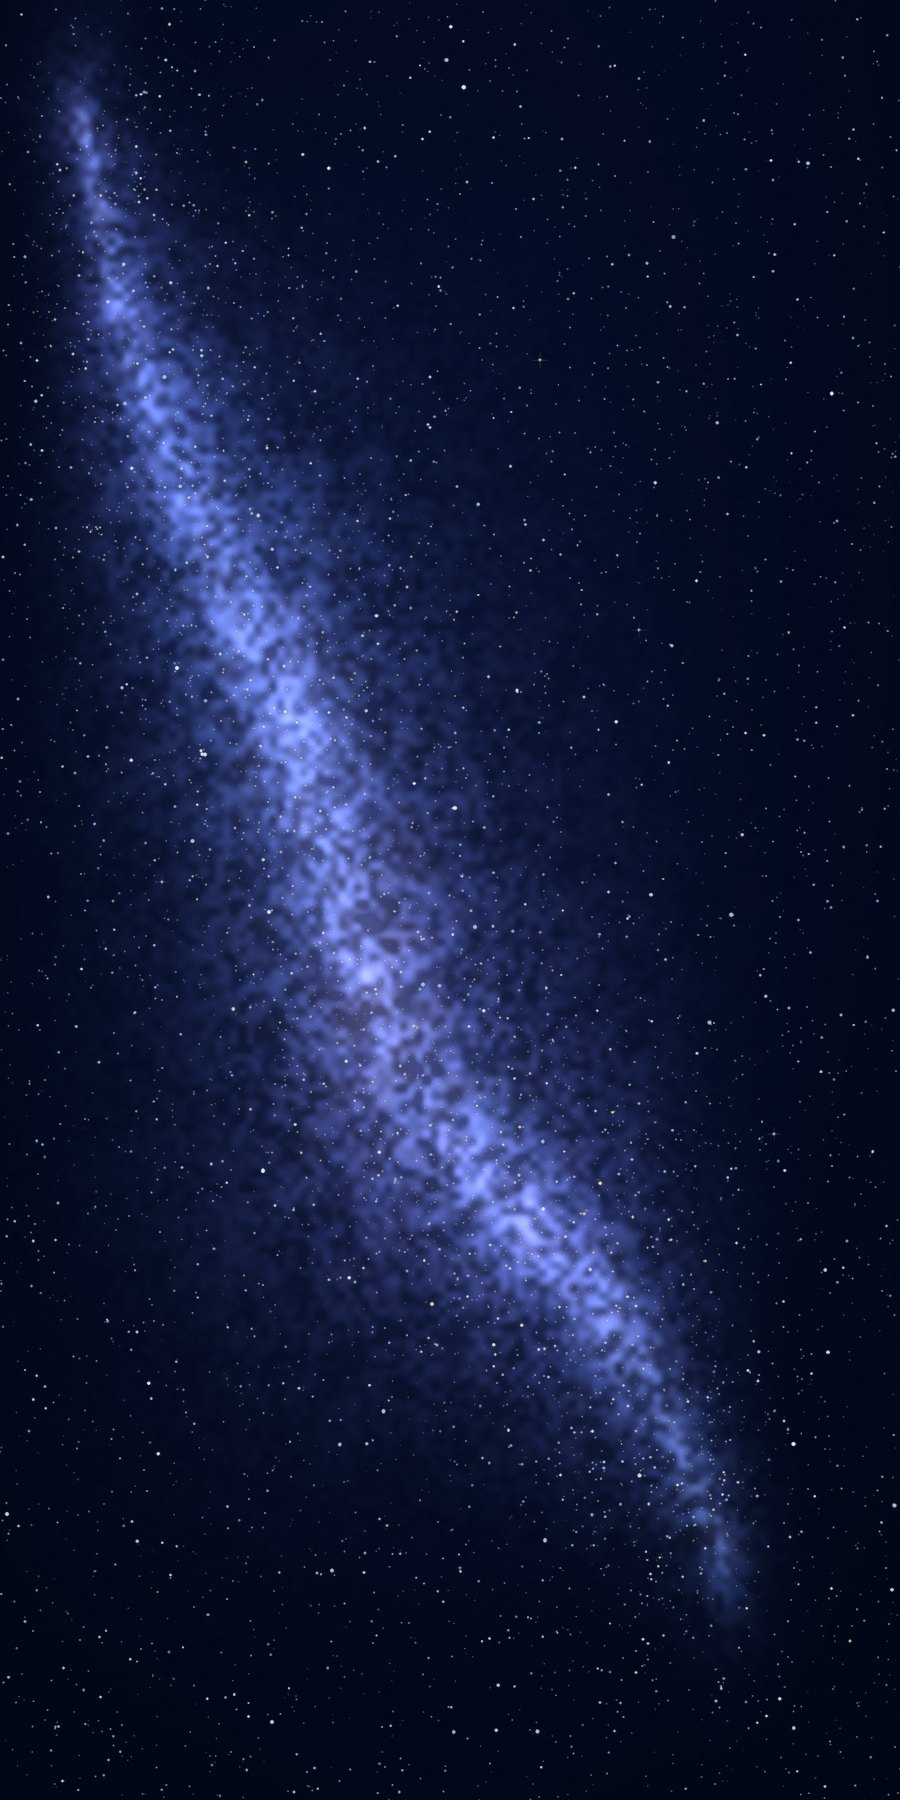
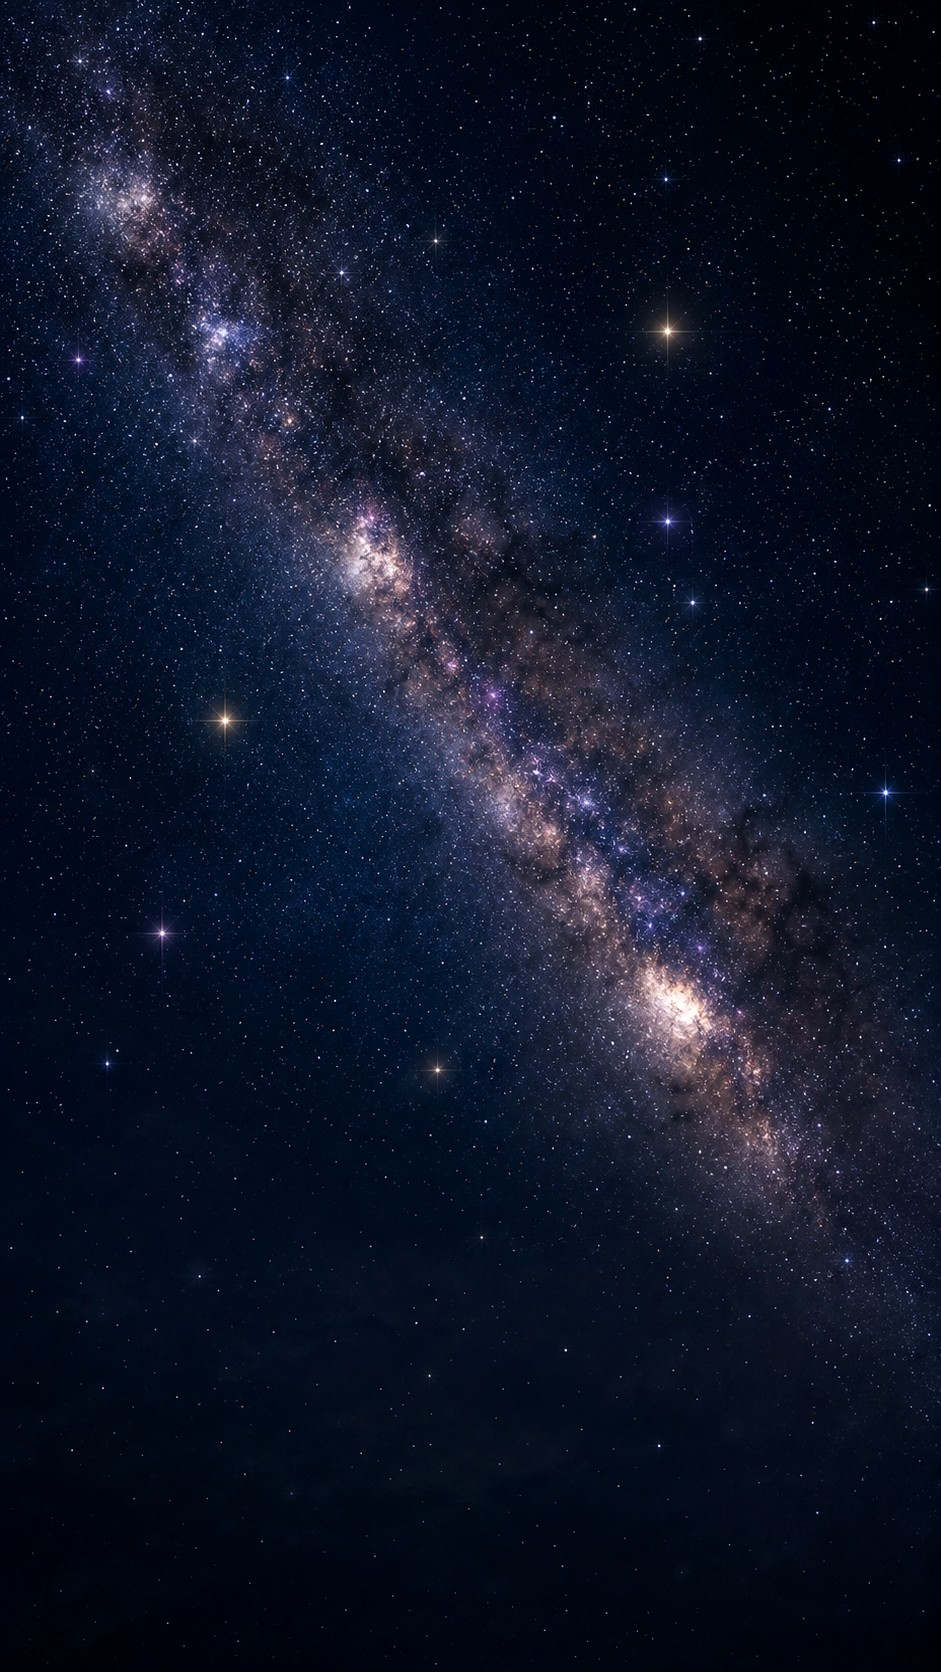
fix: refine galaxy home visuals

diff --git a/pages/index/index.js b/pages/index/index.js
@@ -43,7 +43,7 @@ Page({
     mapStyle: 'transform: translate3d(0px, 0px, 0) scale(1);',
     meteorVisible: false,
     meteorClass: 'track-right',
-    topLeftTop: 78,
+    topLeftTop: 82,
     topActionsTop: 118,
     topActionsRight: 32
   },
@@ -53,6 +53,7 @@ Page({
     this.meteorTimer = null;
     this.mapOffset = { x: 0, y: 0 };
     this.mapScale = 1;
+    this.dragBounds = { x: 120, y: 170 };
     this.touchState = null;
     this.setupNavigationChrome();
     this.syncStars();
@@ -67,19 +68,28 @@ Page({
       const windowInfo = wx.getWindowInfo ? wx.getWindowInfo() : wx.getSystemInfoSync();
       const menuButton = wx.getMenuButtonBoundingClientRect ? wx.getMenuButtonBoundingClientRect() : null;
       const pxToRpx = 750 / windowInfo.windowWidth;
+      this.dragBounds = {
+        x: Math.round(windowInfo.windowWidth * 0.36),
+        y: Math.round(windowInfo.windowHeight * 0.25)
+      };
 
       if (!menuButton) {
+        this.setData({
+          topLeftTop: 82,
+          topActionsTop: 112,
+          topActionsRight: 32
+        });
         return;
       }
 
       this.setData({
-        topLeftTop: Math.max(78, Math.round(menuButton.top * pxToRpx + 8)),
+        topLeftTop: 82,
         topActionsTop: Math.max(112, Math.round(menuButton.bottom * pxToRpx + 18)),
         topActionsRight: 32
       });
     } catch (error) {
       this.setData({
-        topLeftTop: 78,
+        topLeftTop: 82,
         topActionsTop: 118,
         topActionsRight: 32
       });
@@ -312,9 +322,10 @@ Page({
 
     if (this.touchState.mode === 'pan' && touches.length === 1) {
       const touch = touches[0];
+      const bounds = this.dragBounds || { x: 120, y: 170 };
       this.mapOffset = {
-        x: clamp(this.touchState.offsetX + (touch.clientX - this.touchState.startX) * 0.38, -120, 120),
-        y: clamp(this.touchState.offsetY + (touch.clientY - this.touchState.startY) * 0.38, -150, 120)
+        x: clamp(this.touchState.offsetX + (touch.clientX - this.touchState.startX) * 0.46, -bounds.x, bounds.x),
+        y: clamp(this.touchState.offsetY + (touch.clientY - this.touchState.startY) * 0.46, -bounds.y, bounds.y)
       };
       this.updateMapStyle();
       return;
@@ -324,7 +335,8 @@ Page({
       const dx = touches[0].clientX - touches[1].clientX;
       const dy = touches[0].clientY - touches[1].clientY;
       const distance = Math.sqrt(dx * dx + dy * dy);
-      this.mapScale = clamp(this.touchState.startScale * distance / this.touchState.startDistance, 0.86, 1.28);
+      this.mapScale = clamp(this.touchState.startScale * distance / this.touchState.startDistance, 0.94, 1.14);
+      this.mapOffset = this.clampMapOffset(this.mapOffset);
       this.updateMapStyle();
     }
   },
@@ -337,5 +349,13 @@ Page({
     this.setData({
       mapStyle: `transform: translate3d(${this.mapOffset.x}px, ${this.mapOffset.y}px, 0) scale(${this.mapScale});`
     });
+  },
+
+  clampMapOffset(offset) {
+    const bounds = this.dragBounds || { x: 120, y: 170 };
+    return {
+      x: clamp(offset.x, -bounds.x, bounds.x),
+      y: clamp(offset.y, -bounds.y, bounds.y)
+    };
   }
 });